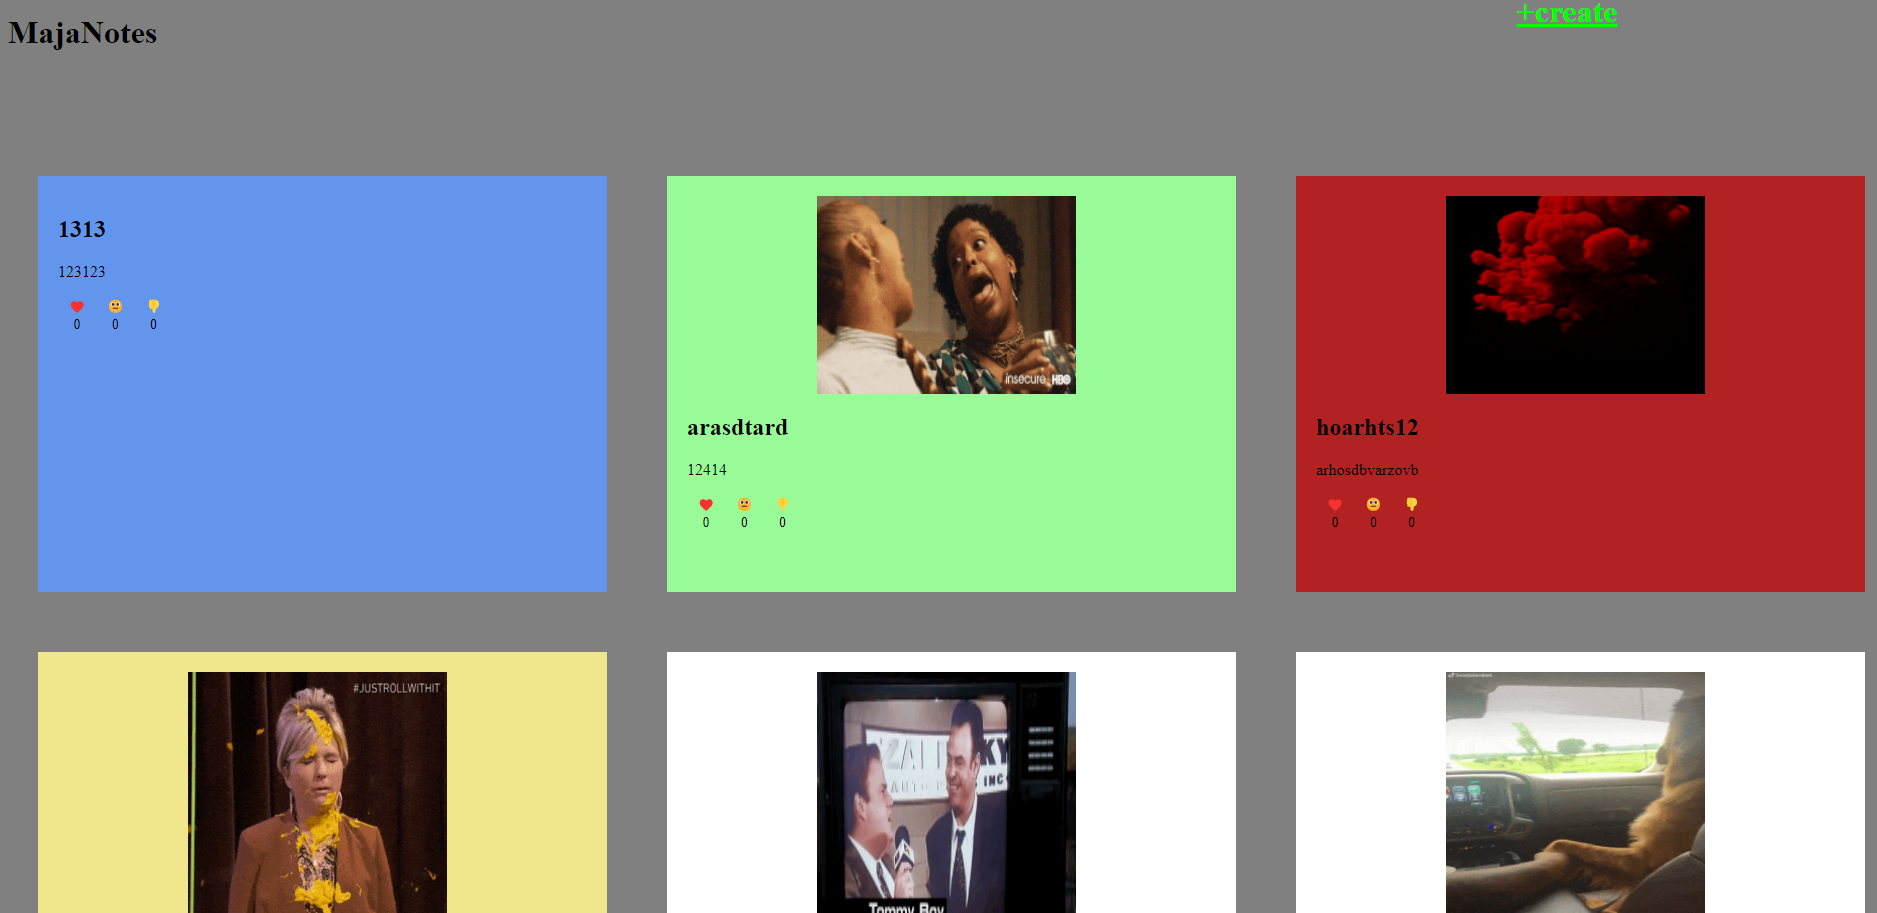
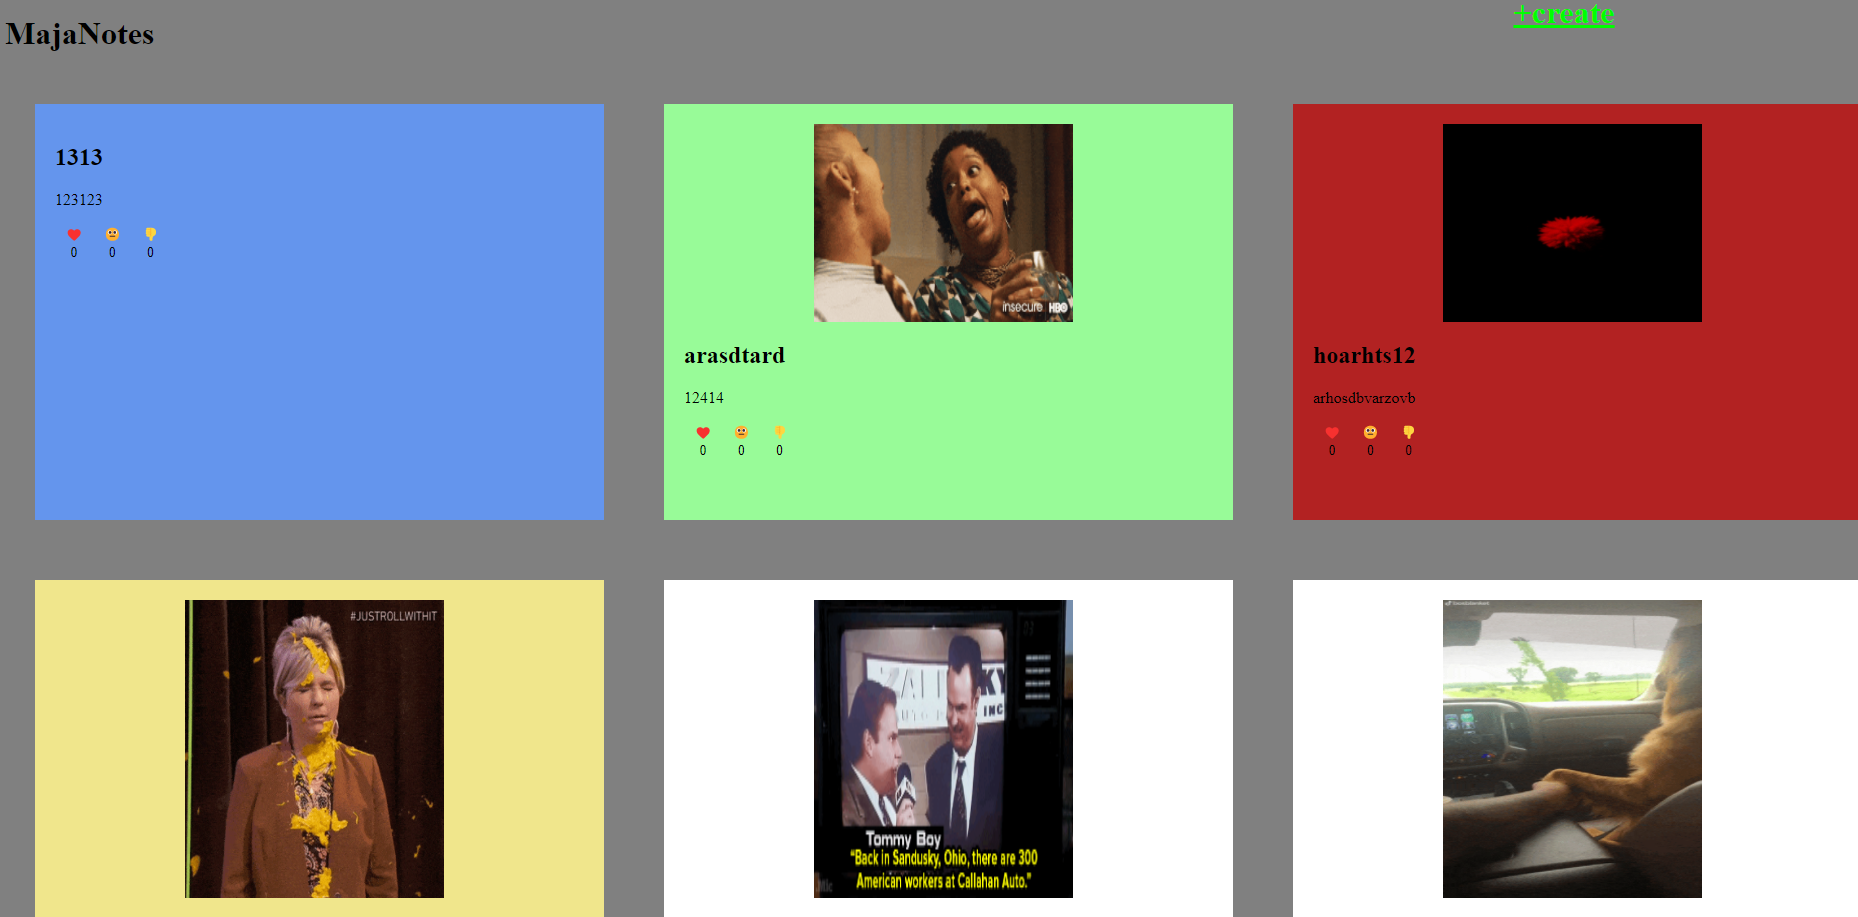
improve image on README

diff --git a/README.md b/README.md
@@ -20,4 +20,5 @@ Then run `npm run dev` to start a server on http://localhost:3000
 
 # Process
 Initially we wrote most of the backend with a bad frontend:
-![](github/badfrontend.png)
+
+![](github/badfrontendscaled.png)
